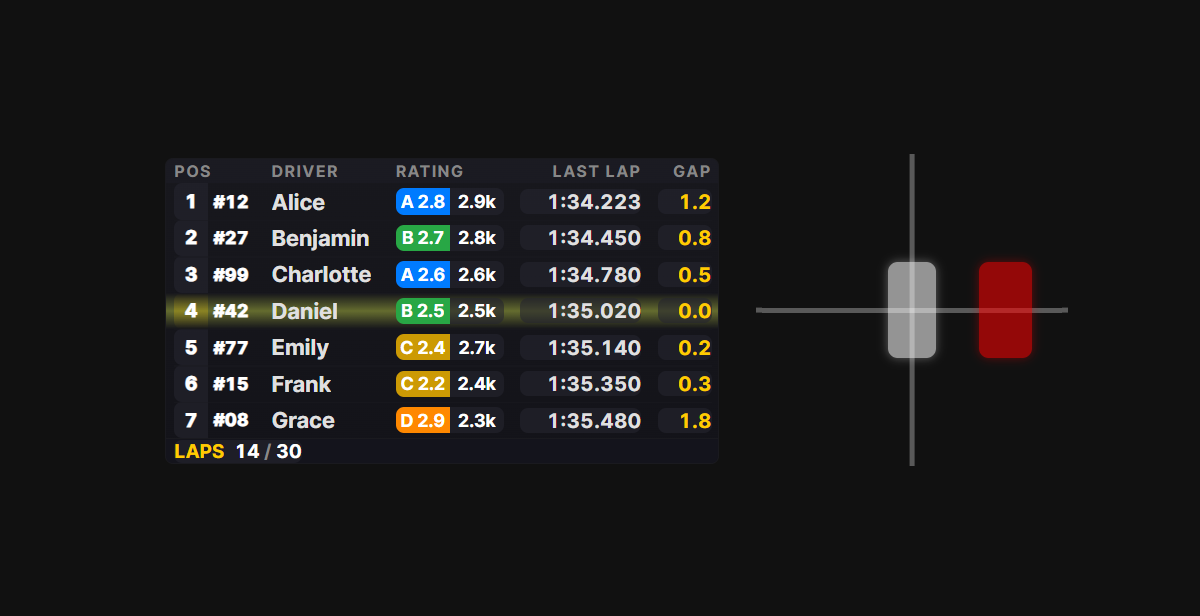
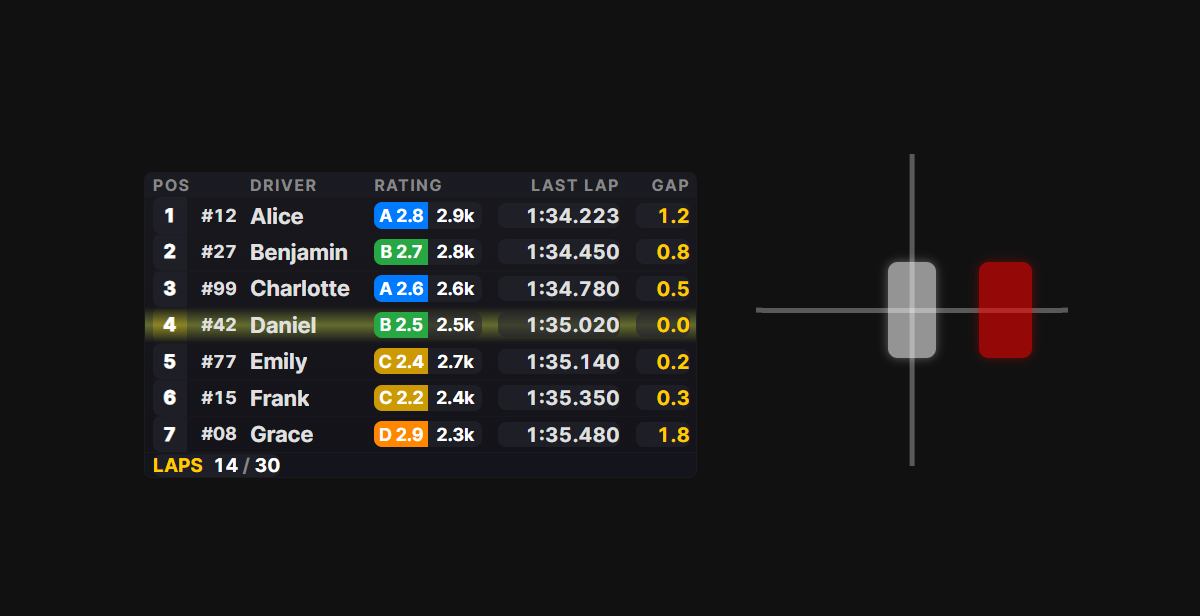
style(frontend): improved appearance of templates. style(frontend/css): improved leaderboard CSS. refactor(frontend/css): improved module and removed unnecessary comments in main.css. fix(service/radar): minor fix to dock strings for radar service. fix(service/radar) update parsers for RadarService.

Changed region(s): [[0.1233, 0.2468, 0.6167, 0.7711]]

diff --git a/frontend/static/css/main.css b/frontend/static/css/main.css
@@ -71,7 +71,7 @@ h1 {
 .card-header {
   display: flex;
   justify-content: space-between;
-  align-items: center;
+  align-items: stretch;
 }
 
 .card:hover {
@@ -93,20 +93,6 @@ h1 {
 a.card {
   text-decoration: none;
   color: inherit;
-}
-
-.card-arrow {
-  background: var(--text-light);
-  color: var(--bg-dark);
-  font-weight: bold;
-  border-radius: 999px;
-  width: 28px;
-  height: 28px;
-  display: flex;
-  justify-content: center;
-  align-items: center;
-  font-size: 16px;
-  transition: background 0.2s;
 }
 
 .top-nav {
@@ -171,13 +157,12 @@ a.card {
   color: var(--accent-color);
 }
 
-/* Каталог оверлеев */
 .overlay-catalog-grid {
   display: grid;
   grid-template-columns: repeat(auto-fill, minmax(200px, 1fr));
   gap: 1rem;
 }
-/* Карточка */
+
 .overlay-catalog-card {
   position: relative;
   width: 200px;
@@ -188,10 +173,9 @@ a.card {
   color: #fff;
   text-decoration: none;
   transition: transform 0.3s ease, filter 0.3s ease;
-  filter: brightness(0.85); /* базово затемнено */
+  filter: brightness(0.85);
 }
 
-/* Изображение */
 .overlay-catalog-card img {
   width: 100%;
   height: 100%;
@@ -200,7 +184,6 @@ a.card {
   transition: transform 0.3s ease;
 }
 
-/* Текст */
 .overlay-catalog-card-text {
   position: absolute;
   bottom: 0;
@@ -210,19 +193,15 @@ a.card {
   font-weight: bold;
   text-align: center;
   background: linear-gradient(to top, rgba(17, 17, 17, 0.8), rgba(0, 0, 0, 0));
-  opacity: 1; /* всегда виден */
-  transform: translateY(0); /* всегда внизу */
+  opacity: 1;
+  transform: translateY(0);
 }
 
-/* Ховер эффект */
 .overlay-catalog-card:hover {
   transform: scale(1.05);
-  filter: brightness(1.05); /* светлее при наведении */
+  filter: brightness(1.05);
 }
 
-
-
-/* Детальная страница карточки */
 .card-detail-container {
   display: flex;
   align-items: flex-start; 
@@ -267,3 +246,24 @@ a.card {
   margin: 0 10px;
 }
 
+.card-icon {
+  transform: scale(5.0);
+  color: var(--accent-color);
+  align-self: stretch;
+  display: flex;
+  align-items: center;
+  justify-content: center;
+  opacity: 0.6;
+  transition: transform 0.3s ease, opacity 0.3s ease;
+}
+
+.app-version {
+  position: fixed;
+  right: 1.5rem;
+  bottom: 1rem;
+  color: #777;
+  font-size: 14px;
+  font-weight: 500;
+  opacity: 0.8;
+  user-select: none;
+}

diff --git a/frontend/templates/pages/main.html b/frontend/templates/pages/main.html
@@ -3,16 +3,13 @@
 {% block title %}Main{% endblock %}
 
 {% block content %}
-<h1>
-  <span>iRacing Overlays</span>
-  <span class="version-text">version {{ app_version }}</span>
-</h1>
+<h1>iRacing Overlays</h1>
 
 <div class="card-grid">
   <a href="/changelog" class="card accent-yellow">
     <div class="card-header">
       <div class="value">What's new in the app?</div>
-      <span class="card-arrow">↗</span>
+      <span class="material-symbols-outlined card-icon">commit</span>
     </div>
     <div class="title">Changelog</div>
   </a>
@@ -20,7 +17,7 @@
   <a href="/overlays" class="card accent-red">
     <div class="card-header">
       <div class="value">Choose your overlays</div>
-      <span class="card-arrow">↗</span>
+      <span class="material-symbols-outlined card-icon">dynamic_feed</span>
     </div>
     <div class="title">See Overlays</div>
   </a>
@@ -28,9 +25,11 @@
   <a href="/settings" class="card accent-gray">
     <div class="card-header">
       <div class="value">Application preferences</div>
-      <span class="card-arrow">↗</span>
+      <span class="material-symbols-outlined card-icon">category</span>
     </div>
     <div class="title">Settings</div>
   </a>
 </div>
+
+<div class="app-version">v{{ app_version }}</div>
 {% endblock %}

diff --git a/frontend/static/css/overlays/leaderboard.css b/frontend/static/css/overlays/leaderboard.css
@@ -118,7 +118,6 @@
   align-items: stretch;
   border-radius: var(--m3-radius-pill);
   overflow: hidden;
-  font-weight: 700;
   width: 80px;
   white-space: nowrap;
   text-overflow: ellipsis;
@@ -151,19 +150,17 @@
 
 .pos-car-badge .car .num {
   font-size: 13px;
-  font-weight: 800;
   font-variant-numeric: tabular-nums;
   font-feature-settings: "tnum";
 }
 
 .num {
-  min-width: 26px;
+  min-width: 40px;
   flex: 1;
   display: flex;
   flex-direction: column;
   justify-content: center;
   align-items: center;
-  color: white;
 }
 
 .pos-car-badge .car .class {

diff --git a/frontend/templates/pages/card_detail/base_detail.html b/frontend/templates/pages/card_detail/base_detail.html
@@ -9,7 +9,7 @@
   <div class="text-column">
     <h1>
       <span class="card-detail-title">{{ card_data.title }}</span>
-      <span class="version-text">version {{ version }}</span>
+      <span class="version-text">v{{ version }}</span>
     </h1>
     <p class="card-detail-desc">{{ card_data.desc }}</p>
     <a id="OpenBtn" class="value nav-btn accent-red">Open</a>

diff --git a/frontend/templates/base/base.html b/frontend/templates/base/base.html
@@ -4,6 +4,7 @@
   <meta charset="UTF-8" />
   <title>{% block title %}{% endblock %}</title>
   <link rel="stylesheet" href="{{ url_for('static', path='/css/main.css') }}">
+  <link rel="stylesheet" href="https://fonts.googleapis.com/css2?family=Material+Symbols+Outlined:opsz,wght,FILL,GRAD@24,400,1,0" />
 </head>
 <body>
   {% include "base/navigation.html" %}

diff --git a/backend/services/irsdk/parser.py b/backend/services/irsdk/parser.py
@@ -1,11 +1,12 @@
 import re
+from typing import Any
 
 from backend.services.irsdk.service import IRSDKService
 from backend.services.radar.parser import IRadarParser
 
 
 class IRSDKParser(IRadarParser):
-    """Parse and interpret iRacing telemetry values"""
+    """Parse and interpret iRacing telemetry values."""
 
     def __init__(self, service: IRSDKService):
         self.service = service
@@ -15,7 +16,7 @@ class IRSDKParser(IRadarParser):
         return int(max(0, min(value * 100, 100)))
 
     def get_speed(self, speed_type: str) -> int | None:
-        """Get speed in specified units"""
+        """Get speed in specified units."""
         speed_ms = self.service.get_value("Speed")
         if speed_ms is None:
             return None
@@ -26,21 +27,21 @@ class IRSDKParser(IRadarParser):
         return int(round(speed_ms * factor, 1))
 
     def get_throttle(self) -> int | None:
-        """Get throttle percentage"""
+        """Get throttle percentage."""
         val = self.service.get_value("Throttle")
         if val is None:
             return None
         return self._clamp_percentage(val)
 
     def get_brake(self) -> int | None:
-        """Get brake percentage"""
+        """Get brake percentage."""
         val = self.service.get_value("BrakeRaw")
         if val is None:
             return None
         return self._clamp_percentage(val)
 
     def get_track_length_m(self, weekend_info: dict) -> float:
-        """Parse track length from weekend info"""
+        """Parse track length from weekend info."""
         if not isinstance(weekend_info, dict):
             return 0.0
         tl = weekend_info.get("TrackLength", "")
@@ -55,3 +56,14 @@ class IRSDKParser(IRadarParser):
             unit, 1.0
         )
         return val * mult
+
+    @staticmethod
+    def normalize_color(value: Any) -> str | None:
+        """Normalize color from int or hex string to #RRGGBB format."""
+        if not value:
+            return None
+        if isinstance(value, int):
+            return f"#{value:06X}"
+        if isinstance(value, str) and value.startswith("0x"):
+            return f"#{int(value, 16):06X}"
+        return value

diff --git a/backend/services/radar/service.py b/backend/services/radar/service.py
@@ -14,18 +14,18 @@ from backend.services.radar.constants import (
 
 
 class DistanceSeverity:
-    """Encapsulates logic to calculate severity for distances"""
+    """Encapsulates logic to calculate severity for distances."""
 
     @staticmethod
     def _sanitize_distance(dist: Optional[float]) -> Optional[float]:
-        """Ignore distances outside valid range"""
+        """Ignore distances outside valid range."""
         if dist is None or not (0 <= dist <= MAX_SHOW_DIST):
             return None
         return dist
 
     @staticmethod
     def for_distance(dist: Optional[float]) -> str:
-        """Return severity level for a given distance"""
+        """Return severity level for a given distance."""
         if dist is None:
             return "none"
         if dist <= RED_M:
@@ -42,14 +42,14 @@ class DistanceSeverity:
 
 
 class RadarService:
-    """Business logic service working with radar data"""
+    """Business logic service working with radar data."""
 
     def __init__(self, irsdk_service, parser: IRadarParser):
         self.irsdk_service = irsdk_service
         self.irsdk_parser = parser
 
     def get_radar_json(self) -> dict:
-        """Build radar telemetry JSON response"""
+        """Build radar telemetry JSON response."""
         connected, reason = self.irsdk_service._ensure_connected()
         if not connected:
             return {"reason": reason}

diff --git a/backend/services/leaderboard/service.py b/backend/services/leaderboard/service.py
@@ -1,6 +1,7 @@
 import time
 from typing import Any, Dict, List, Optional
 
+from backend.services.leaderboard.parser import ILeaderboardParser
 
 class TimeFormatter:
     """Utility for formatting lap times."""
@@ -21,8 +22,9 @@ class TimeFormatter:
 class CarDataBuilder:
     """Responsible for constructing car data entries."""
 
-    def __init__(self, irsdk_service):
+    def __init__(self, irsdk_service, parser: ILeaderboardParser):
         self.irsdk = irsdk_service
+        self.parser = parser
 
     def _get_starting_position(
         self, car_idx: int, field: str, offset: int
@@ -77,7 +79,7 @@ class CarDataBuilder:
 
         dist = lap_dist_pct[idx]
         first_name = (name.strip().split() or [""])[0]
-        car_class_color = self.irsdk.normalize_color(
+        car_class_color = self.parser.normalize_color(
             driver.get("CarClassColor")
         )
 
@@ -116,9 +118,9 @@ class CarSorter:
 class Leaderboard:
     """Main service for building leaderboard telemetry data."""
 
-    def __init__(self, irsdk_service):
+    def __init__(self, irsdk_service, parser: ILeaderboardParser):
         self.irsdk = irsdk_service
-        self.builder = CarDataBuilder(irsdk_service)
+        self.builder = CarDataBuilder(irsdk_service, parser)
 
     def _is_multiclass(self, drivers: list) -> bool:
         """Check if race contains multiple car classes."""

diff --git a/backend/services/irsdk/service.py b/backend/services/irsdk/service.py
@@ -36,14 +36,3 @@ class IRSDKService():
             return self.ir[field]
         except KeyError:
             return None
-
-    @staticmethod
-    def normalize_color(value: Any) -> str | None:
-        """Normalize color from int or hex string to #RRGGBB format."""
-        if not value:
-            return None
-        if isinstance(value, int):
-            return f"#{value:06X}"
-        if isinstance(value, str) and value.startswith("0x"):
-            return f"#{int(value, 16):06X}"
-        return value

diff --git a/backend/services/leaderboard/parser.py b/backend/services/leaderboard/parser.py
@@ -1,0 +1,14 @@
+from typing import Protocol, Any
+
+
+class ILeaderboardParser(Protocol):
+    """
+    interface/Protocol for Leaderboard service, which
+    requires only part of IRSDKParser functionality.
+
+    Leaderboard service -> ILeaderboardParser (requires only part)
+    -> IRSDKParser -> IRSDKService -> irsdk.IRSDK
+    """
+
+    # declared with self for typing; actually a @staticmethod in IRSDKParser
+    def normalize_color(self, value: Any) -> str | None: ...

diff --git a/backend/services/radar/parser.py b/backend/services/radar/parser.py
@@ -2,6 +2,12 @@ from typing import Protocol, Any
 
 
 class IRadarParser(Protocol):
-    """Abstract interface for Radar data extraction"""
+    """
+    interface/Protocol for Radar service, which
+    requires only part of IRSDKParser functionality.
+
+    RadarService -> IRadarParser (requires only part)
+    -> IRSDKParser -> IRSDKService -> irsdk.IRSDK
+    """
 
     def get_track_length_m(self, weekend_info: Any) -> float: ...

diff --git a/backend/routers/apis.py b/backend/routers/apis.py
@@ -9,7 +9,7 @@ router = APIRouter(prefix="/api")
 irsdk_service = IRSDKService()
 irsdk_parser = IRSDKParser(irsdk_service)
 radar_service = RadarService(irsdk_service, irsdk_parser)
-leaderboard_service = Leaderboard(irsdk_service)
+leaderboard_service = Leaderboard(irsdk_service, irsdk_parser)
 
 
 @router.get("/radar")
